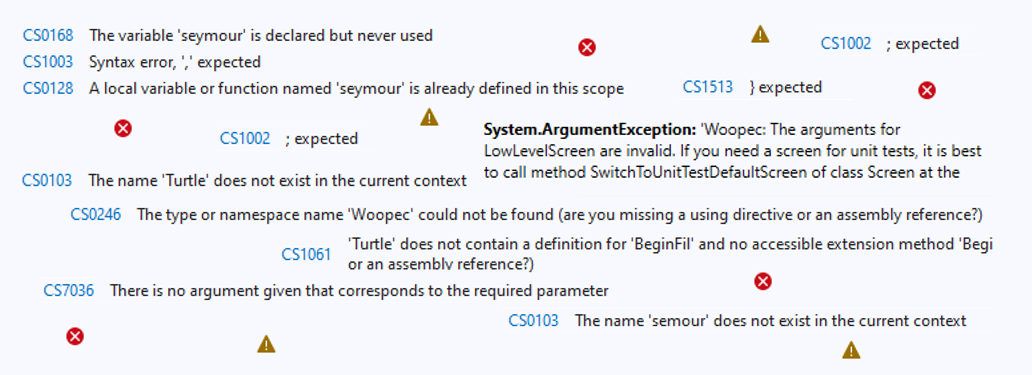
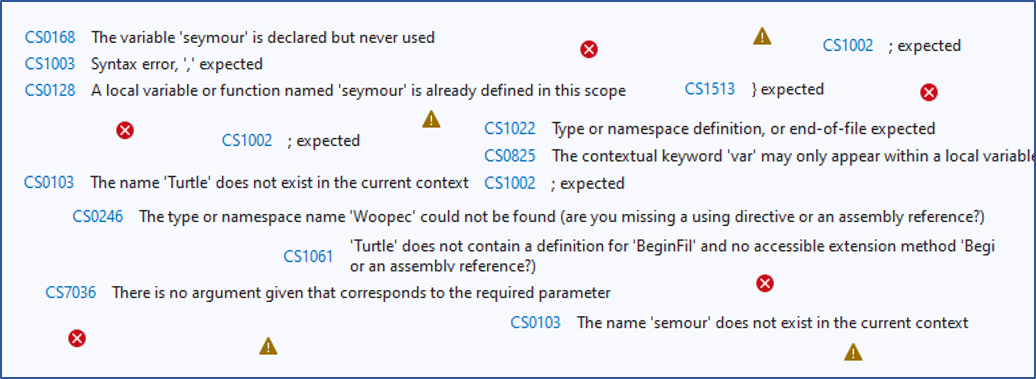
doc: hexafour-04, compiler errors and debugging, finished

diff --git a/_posts/2023-07-23-hexafour-04-debugging.md b/_posts/2023-07-23-hexafour-04-debugging.md
@@ -5,7 +5,7 @@ tags: LearnToCode C# HexaFour
 excerpt_separator: <!--more-->
 typora-root-url: ..
 ---
-![xxx](/assets/images/hexafour/CompilerErrors.png)
+![Image with Visual Studio compiler errors: CS1002 ; expected. CS1003 , expected. CS1022 Type or namespace definition, or end-of-file expected. CS7036 There is no argument given that corresponds to the required parameter. And more.](/assets/images/hexafour/CompilerErrors.png)
 
 You have written your first C# program and it compiles with errors? This is quite normal in the beginning. Don't let that stop you from learning C#. Here I explain some of the most common errors and how to fix them. Your program runs, but doesn't do what it's supposed to do? This is also quite normal. With the Visual Studio Debugger, you can see step-by-step what your program is doing and quickly find out what is wrong.
 
@@ -19,7 +19,7 @@ Let's start with an example:
 internal class Program{static void Main(string[] args){Console.WriteLine("Hello World")}}
 ```
 
-The C# compiler has a problem with this program, it expects a semicolon somewhere. That is why it issues the error message "CS1002 ; expected". In the example above, I intentionally wrote everything on one line, because that is more like how the compiler sees your program code. You would write the above program more like this:
+The C# compiler has a problem with this program, it expects a semicolon somewhere. That is why it issues the error message "CS1002 ; expected". In the code example above, I intentionally wrote everything on one line, because that is more like how the compiler sees your program code. You would write the above program more like this:
 
 ```csharp
 internal class Program
@@ -31,11 +31,11 @@ internal class Program
 }
 ```
 
-From the compiler's perspective, this version of the program is just like the first one. The C# compiler does not care about spaces or line breaks in your program. That is why it needs a sign by which it can determine that a statement has come to an end. And this sign is the semicolon. Each statement must be terminated with a semicolon, otherwise the compiler will not recognize it. So you have to add a semicolon after the statement that prints "Hello World".
+From the compiler's perspective, this version of the program is just like the first one. The C# compiler does not care about spaces, indentations or line breaks in your program. That is why it needs a sign by which it can determine that a statement has come to an end. And this sign is the semicolon. Each statement must be terminated with it, otherwise the compiler will not recognize it. So you have to add a semicolon after the statement that prints "Hello World".
 
 Visual Studio does a lot to help you fix such errors:
 
-![image-20230722152345840](/assets/images/hexafour/VSErrorHelp.png)
+![Screenshot of Visual Studio with Error List, squiggled error and Quick Actions](/assets/images/hexafour/VSErrorHelp.png)
 
 (1) The error is displayed in the **Error List**. (2) If you click on the link [CS1002](https://learn.microsoft.com/en-us/dotnet/csharp/misc/cs1002?f1url=%3FappId%3Droslyn%26k%3Dk(CS1002)), you will see a description of the error. (3) In the editor, at the end of line 5, the error location is marked with a red squiggle. And (4) the light bulb at the beginning of line 5 offers you Quick Actions to fix the error. These Quick Actions don't help with this particular error, but the other offerings should help with this type of error.
 
@@ -47,43 +47,39 @@ C# uses different types of parentheses to indicate the beginning and end of some
 * Square brackets `[`and `]`mark the beginning and end of list-like things.
 * Round brackets `(` and `)` enclose the parameters of methods.
 
-If there is a bracket in a file without a partner, then the C# compiler also has a problem. When we delete a *closing* bracket, we usually get appropriate error messages
+If there is a bracket in a file without a matching partner, then the C# compiler also has a problem. If a *closing* bracket is missing, we usually get appropriate error messages:
 
 * CS1513 } expected
 * CS2026 ) expected
 * CS1003 ] expected
 
-With a small program, the cause of such errors can be found relatively quickly. But it becomes more difficult when the program has many lines. The compiler only knows *that* a bracket is missing, but not *where* it is missing. That is why it displays the error in this example like this:
+The cause of such errors is relatively easy to find if your program is small. But it becomes more difficult if the program has many lines. The compiler only knows *that* a bracket is missing, but not *where* it is missing. That is why it displays the error in this example like this:
 
-![](/assets/images/hexafour/VSErrorMissingClosingBrace.png)
+![Screenshot of Visual Studio with missing closing brace and Error List Window showing: "error CS1513 } expected"](/assets/images/hexafour/VSErrorMissingClosingBrace.png)
 
-The error is displayed at the very end of the file. Now how do you find the place where the bracket is really missing? There are options here as well.
+The error is displayed at the very end of the file. But how do you find the place where the bracket is really missing? There are options here as well: For one thing, you can put the cursor behind the last bracket. Then Visual Studio displays this bracket with a gray background, and it displays the **corresponding opening bracket** also with a gray background. In the example above, this is the bracket in line 4. This doesn't fit properly, and you can see that line 6 is missing a closing parenthesis. On the other hand, you can also make the cursor **jump to the corresponding opening parenthesis**. For this you use the keyboard shortcut **Ctrl+]**.
 
-For one thing, you can put the cursor behind the last bracket. Then Visual Studio displays this bracket with a gray background, and it displays the **corresponding opening bracket** also with a gray background. In the example above, this is the bracket in line 4. This doesn't fit properly, and you can see that line 6 is missing a closing parenthesis.
-
-On the other hand, you can also make the cursor **jump to the corresponding opening parenthesis**. For this you use the keyboard shortcut **Ctrl+]**.
-
-### When the faulty spot is difficult to find
+### If the faulty spot is difficult to find
 
 If your program is missing an *opening* parenthesis, the C# compiler has more trouble giving you a good error message. Because the opening bracket is missing, the compiler does not understand the code behind it correctly and displays many error messages:
 
-![image-20230722171641050](/assets/images/hexafour/VSErrorMissingOpeningBrace.png)
+![Screenshot of Visual Studio with code missing an opening brace. Error List shows many errors.](/assets/images/hexafour/VSErrorMissingOpeningBrace.png)
 
 Fortunately, it is not so common that an opening bracket is missing. But in such cases it is more difficult to find the error. In this example an opening parenthesis is missing in line 4. This has generated 10 compiler errors! And the first error is printed one line in front of the real error! The only thing that helps here is to stay calm and try to narrow down the location where the error is likely to be. If you can't find the error at all, you can try to make your program smaller. You don't have to delete any lines of the program for that, you can comment them out. A **comment** is a part of your code that the compiler does not even consider. Normally you use this to comment for others how the code is intended. You can find a description of comments in [Microsoft Learn](https://learn.microsoft.com/en-us/dotnet/csharp/language-reference/tokens/comments). Here I put a part of the program in a comment, and after that there are no more errors. That's why the cause of the error must be in the commented out part of the program:
 
-![image-20230722174542877](/assets/images/hexafour/VSErrorSearchWithComments.png)
+![Screenshot of Visusal Studio with code commented out. A way to find the cause of a compiler error.](/assets/images/hexafour/VSErrorSearchWithComments.png)
 
 Next, I commented out a smaller part. Now there are errors again. So the error must be somewhere in line 3, 4 or 6:
 
-![image-20230722175111211](/assets/images/hexafour/VSErrorSearchWithComments2.png)
+![Screenshot of Visusal Studio with less code commented out. A way to find the narrow down the compiler error.](/assets/images/hexafour/VSErrorSearchWithComments2.png)
 
-Normally, you find the error this way. If not, you can try rewriting the code in small bites: Start with a version that is compiled without errors. Then gradually add small pieces and check the code again by compiling it. Eventually, you will reach the incorrect location, or you will have automatically written the code correctly.
+Normally, you find the error this way. If not, you can try **rewriting the code in small bites**: Start with a version that is compiled without errors. Then gradually add small pieces and check the code again by compiling it. Eventually, you will reach the incorrect location, or you will have automatically written the code correctly.
 
 ### Sometimes you can fix errors with Visual Studio Quick Actions
 
 In the following example, I have modified the program from the [last post][hexafour-03] so that it has an error in line 5. The compiler does not know the name "Turtle". If you place the cursor in the faulty line, a small light bulb is displayed at the beginning of the line, showing so-called Quick Actions:
 
-![image-20230722181632217](/assets/images/hexafour/VSQuickActionsAddUsing.png)
+![Screenshot of Visual Studio with a Quick Action. The Quick Action has four suggestions. The first one is 'using Woopec.Core'.](/assets/images/hexafour/VSQuickActionsAddUsing.png)
 
 Four different Quick Actions are suggested here. The first one is exactly what is missing here: A `using Woopec.Core;` statement must be added at the top of the file. You can correct this directly with the Quick Action. When fixing compiler errors, you have to be a little careful with the Quick Actions. The other three suggestions in this example would not have helped at all. Often there is nothing that helps at all. But sometimes the right suggestion is there.
 
@@ -93,7 +89,7 @@ These were a few tips for fixing compiler errors. Before I give a few tips on de
 
 ### Watch the program at work: The debugger
 
-Your program no longer has compiler errors, but when you run it, it doesn't do the right thing. Then the best thing to do is to use the Visual Studio debugger to find out what is wrong. There are many good tutorials about the Visual Studio debugger. However, most of the time it is assumed that you have already written some more C# code. But I find that the debugger is super helpful right from the start. That's why I show a few basics here. For this I take this example from the beginning of the last [post][hexafour-03]:
+Your program no longer has compiler errors, but when you run it, it doesn't do the right thing. Then the best thing to do is to use the Visual Studio debugger to find out what is wrong. There are many good tutorials about the Visual Studio debugger. However, most of the time it is assumed that you have already written some more C# code. But I find that the debugger is super helpful right from the start. That's why I show a few basics here. For this I take the example from the beginning of the last [post][hexafour-03]:
 
 ```csharp
 public static void WoopecMain()
@@ -110,7 +106,7 @@ public static void WoopecMain()
 
 All necessary commands can be found in the Debug menu of Visual Studio:
 
-![Screenshot showing where you can find the debug commands in the Visual Studio menu](/_posts/VisualStudioStartDebugging.png)
+![Screenshot showing where you can find the debug commands in the Visual Studio menu](/assets/images/hexafour/VisualStudioStartDebugging.png)
 
 With the debugger you can run the program step by step and check what it does. Each command can also be executed via a function key. If possible, you should set up your computer so that you can work with the function keys. If this is not possible, you can use the menu items or click on the appropriate icons that Visual Studio displays below the menu.
 
@@ -120,48 +116,56 @@ Before you start the program (and also while the program is running), you can pl
 
 This means that a **breakpoint** is now set there. 
 
-![image-20220527191547448](/assets/images/hexafour/DebuggerBreakpoint.png)
+![Screenshot of Visual Studio with a breakpoint](/assets/images/hexafour/DebuggerBreakpoint.png)
 
-Then you **start debugging** (F5). The debugger stops at the first breakpoint and indicates this by marking the position in yellow:
+Then you **start debugging** (**F5 key**). The debugger stops at the first breakpoint and indicates this by marking the position in yellow:
 
-![image-20220527192109091](/assets/images/hexafour/DebuggerActiveLine.png)
+![Screenshot of Visual Studio with Debugger stopped at a breakpoint](/assets/images/hexafour/DebuggerActiveLine.png)
 
 Before you continue, you should place the Visual Studio window and the Turtle program window side by side. In Windows 11, this is easily done by moving the mouse to the Resize icon and then selecting the option to display Visual Studio on the right side of the screen:
 
-![image-20220527192636178](/assets/images/hexafour/DebuggingWindowPositions.png)
+![Screenshot with Windows Group options. The first option shows to boxes of same size side by side. The left box is gray, the right box is blue.](/assets/images/hexafour/DebuggingWindowPositions.png)
 
 After you click on the blue rectangle, Visual Studio shrinks to the right half of the screen and a list of windows is displayed to the left of it, from which you can select the window for the left half. Here you choose the Turtle program window. After that your screen should look like this:
 
-<img src="/assets/images/hexafour/DebuggingExampleScreen.png" alt="image-20220527193450946" style="zoom:40%;" />
+<img src="/assets/images/hexafour/DebuggingExampleScreen.png" alt="Screenshot of the complete Windows screen. Left half contains a Window with a small green turtle in it. Right half contains Visual Studio in Debug mode." style="zoom:40%;" />
 
 Now the editor window of Visual Studio is relatively small. We can improve this by changing the **window layout**. How this works is described in [Microsoft Learn]((https://learn.microsoft.com/en-us/visualstudio/ide/customizing-window-layouts-in-visual-studio?view=vs-2022)). The best way is to save the current layout via "Save Window Layout" under a meaningful name (for example "DebuggingDefault"). After that we clean up the windows a bit: First, we close the "Diagnostic Tools" window. This allows the editor window to use the whole width. We can also move all windows from the bottom right to the bottom left window, so that there are only two windows left. Then we can save this Window layout under a different name, for example "DebuggingSmall". Now Visual Studio looks like this:
 
-<img src="/assets/images/hexafour/DebuggingExampleScreen2.png" alt="image-20230722215322956" style="zoom:80%;" />
+<img src="/assets/images/hexafour/DebuggingExampleScreen2.png" alt="Screenshot ov Visual Studio in Debug mode. The upper half contains the editor window. The lower half contains multiple stacked windows, where the 'Auto' window is visible and shows the contents of a variable named 'seymour'" style="zoom:80%;" />
 
 In this screenshot you can see the **Autos Window** in the lower part. This window shows the variables of your program. In this example the variable `seymour` is shown. You can expand and collapse it to see the values of the individual properties of `seymour`. For example, in the highlighted line you can see that the value of the property `IsDown` has the value `true`.
 
 Now you click once in the code editor of Visual Studio, so that the focus is in Visual Studio. Then you can execute the program step by step: By pressing **key F10** (function "Step Over" in the Debug Menu) the next statement of the program will be executed. So in the example above, the Turtle rotates 60 degrees to the right. In the Visual Studio window the yellow marker moves to the next statement:
 
-![image-20220527194042041](/assets/images/hexafour/DebuggingNextStep.png)
+![Screenshot of Visual Studio. Line 9 contains a breakpoint, line 10 is marked with a yellow arrow at the beginning and the text has a yellow background.](/assets/images/hexafour/DebuggingNextStep.png)
 
 The next click of F10 will execute the next statement. You can also set another breakpoint, for example in the line further down:
 
-![image-20220527194258839](/assets/images/hexafour/DebuggingNextBreakpoint.png)
+![Screenshot similar to the last one, but more lines are visible. Line 18 contains an additional breakpoint.](/assets/images/hexafour/DebuggingNextBreakpoint.png)
 
 If you then select the **F5** key (or "Continue" in Debug menu), the program continues to run normally and only stops again when it has reached this breakpoint.
 
 With the **Shift-F5** key (or "Stop Debugging" in Debug menu) you can stop debugging at any point. 
 
-**Debugging is extremely helpful** because this way you can watch your code at work. If something doesn't work as desired, you can quickly find the error. When I changed something in my program, I always do it like this: I set a breakpoint on the first statement I changed, then start the debugger and check step by step if the program does exactly what I thought it would.
+Debugging is *extremely helpful* because this way you can watch your code at work. If something doesn't work as desired, you can quickly find the error. When I changed something in my program, I always do it like this: I set a breakpoint on the first statement I changed, then start the debugger and check step by step if the program does exactly what I thought it would.
 
-Note: If you want to change the code of your program, you should stop debugging before.
+One last note: If you want to change the code of your program, you should stop debugging before.
 
 ### Summary
 
 * This post is part of a series. You can find the previous post [here][hexafour-03] and an overview [here][hexafour-overview].
-* Debugger nutzen: Starten mit *F5*, Breakpoint setzen mit *F9*, Step over mit *F10*, zum nächsten Breakpoint mit *F5*, Debuggen beenden mit *Shift F5*.
-* For more information on fixing errors, see [Fix program errors and improve code](https://learn.microsoft.com/en-us/visualstudio/ide/find-and-fix-code-errors?view=vs-2022) on Microsoft Lean.
-* For more information on debugging, see the videos [C# 101 Debugging](https://www.youtube.com/watch?v=pm_pv0Eb7Fw) and [.NET Core 101  Basic Debugging](https://learn.microsoft.com/de-de/shows/net-core-101/net-basic-debugging) or the article [First look at the debugger](https://learn.microsoft.com/en-us/visualstudio/debugger/debugger-feature-tour?view=vs-2022) on Microsoft Learn.
+* Compiler errors:
+  * The compiler does not see spaces, indentations or line breaks. It needs semicolons and matching brackets to understand the code correctly. Finding errors is helped by the *Error-List Window*, *Quick Actions*, *commenting out* code, and the *[keyboard shortcut](https://learn.microsoft.com/en-us/visualstudio/ide/default-keyboard-shortcuts-in-visual-studio?view=vs-2022#bkmk_text-editor-context-specific-shortcuts)* Ctrl+], you can also *rewrite the code in small pieces*.
+  * For more information on fixing errors, see for example [Fix program errors and improve code](https://learn.microsoft.com/en-us/visualstudio/ide/find-and-fix-code-errors?view=vs-2022) on Microsoft Lean.
+
+* Debugging: 
+  * Start debugging with *F5*, set breakpoint with *F9*, step over with *F10*, to next breakpoint with *F5*, end debugging with *Shift F5*. 
+  * The *Autos Window* shows the values of variables. 
+  * If you have little space on the screen: change the [Visual Studio Windows Layout](https://learn.microsoft.com/en-us/visualstudio/ide/customizing-window-layouts-in-visual-studio?view=vs-2022). 
+  * For more information on debugging, see for example the videos [C# 101 Debugging](https://www.youtube.com/watch?v=pm_pv0Eb7Fw) and [.NET Core 101  Basic Debugging](https://learn.microsoft.com/de-de/shows/net-core-101/net-basic-debugging) or the article [First look at the debugger](https://learn.microsoft.com/en-us/visualstudio/debugger/debugger-feature-tour?view=vs-2022) on Microsoft Learn.
+
+*  If you want to change the code of your program, you should stop debugging before.
 
 ### How to go on
 

diff --git a/_posts/2023-07-01-hexafour-01-overview.md b/_posts/2023-07-01-hexafour-01-overview.md
@@ -69,6 +69,7 @@ The following list contains the posts of this series published so far.
 * [Learn to fly with C#][hexafour-01]
 * [The first C# program with graphics][hexafour-02]
 * [Draw a hexagon with C#][hexafour-03]
+* [Why is this simple C# Program not working? Fixing Compiler Errors and using the Visual Studio Debugger][hexafour-04]
 
 If you are looking for specific topics, these lists can help you:
 
@@ -82,6 +83,9 @@ If you are looking for specific topics, these lists can help you:
 
 * [Installation, debugger start, debugger stop][hexafour-02]
 * [IntelliSense][hexafour-03]
+* Keyboard shortcuts: [jump to corresponding brace, and more][hexafour-04]
+* Compiler errors: [tips and tricks to fix them][hexafour-04]
+* Debugging: [start, stop, breakpoints, step over, step into][hexafour-04], [window placement][hexafour-04]
 
 *Woopec graphics library*:
 
@@ -104,3 +108,5 @@ If you are looking for specific topics, these lists can help you:
 [hexafour-02]: {% post_url 2023-07-02-hexafour-02-first-program %}
 
 [hexafour-03]: {% post_url 2023-07-14-hexafour-03-draw-a-hexagon %}
+
+[hexafour-04]: {% post_url 2023-07-23-hexafour-04-debugging %}

diff --git a/_posts/2023-07-14-hexafour-03-draw-a-hexagon.md b/_posts/2023-07-14-hexafour-03-draw-a-hexagon.md
@@ -147,7 +147,7 @@ Maybe you haven't noticed, but in the code examples above we used not only metho
 
 ### How to go on
 
-In the next post I will explain how to fix compiler errors and howrun the program step by step in the debugger. Until then, you may want to program your own image with Turtle commands.
+In the [next post][hexafour-04] I will explain how to fix compiler errors and howrun the program step by step in the debugger. Until then, you may want to program your own image with Turtle commands.
 
 
 
@@ -156,3 +156,5 @@ In the next post I will explain how to fix compiler errors and howrun the progra
 [Woopec-doc-turtle-class]: https://frank.woopec.net/woopec_docs/Turtle.html
 
 [Woopec-doc-helper-classes]: https://frank.woopec.net/woopec_docs/HelperClasses.html
+
+[hexafour-04]: {% post_url 2023-07-23-hexafour-04-debugging %}
